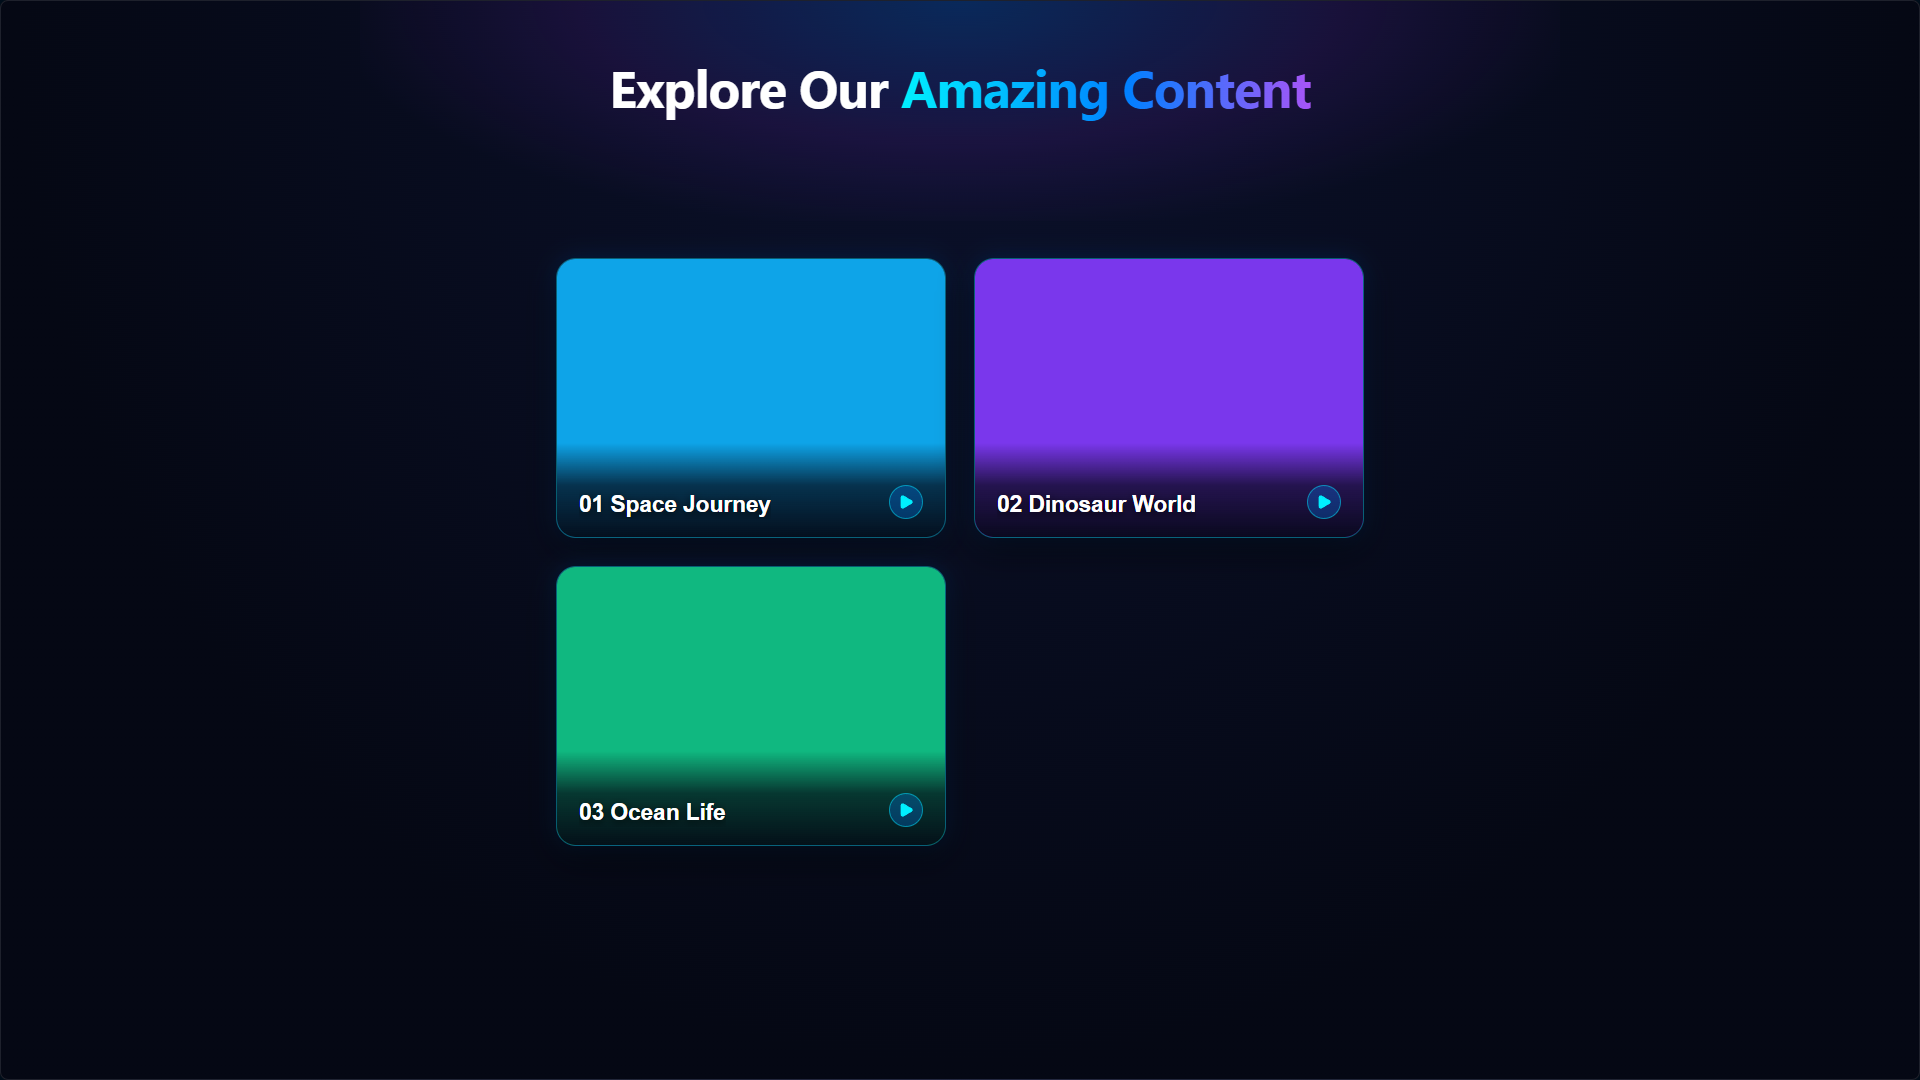
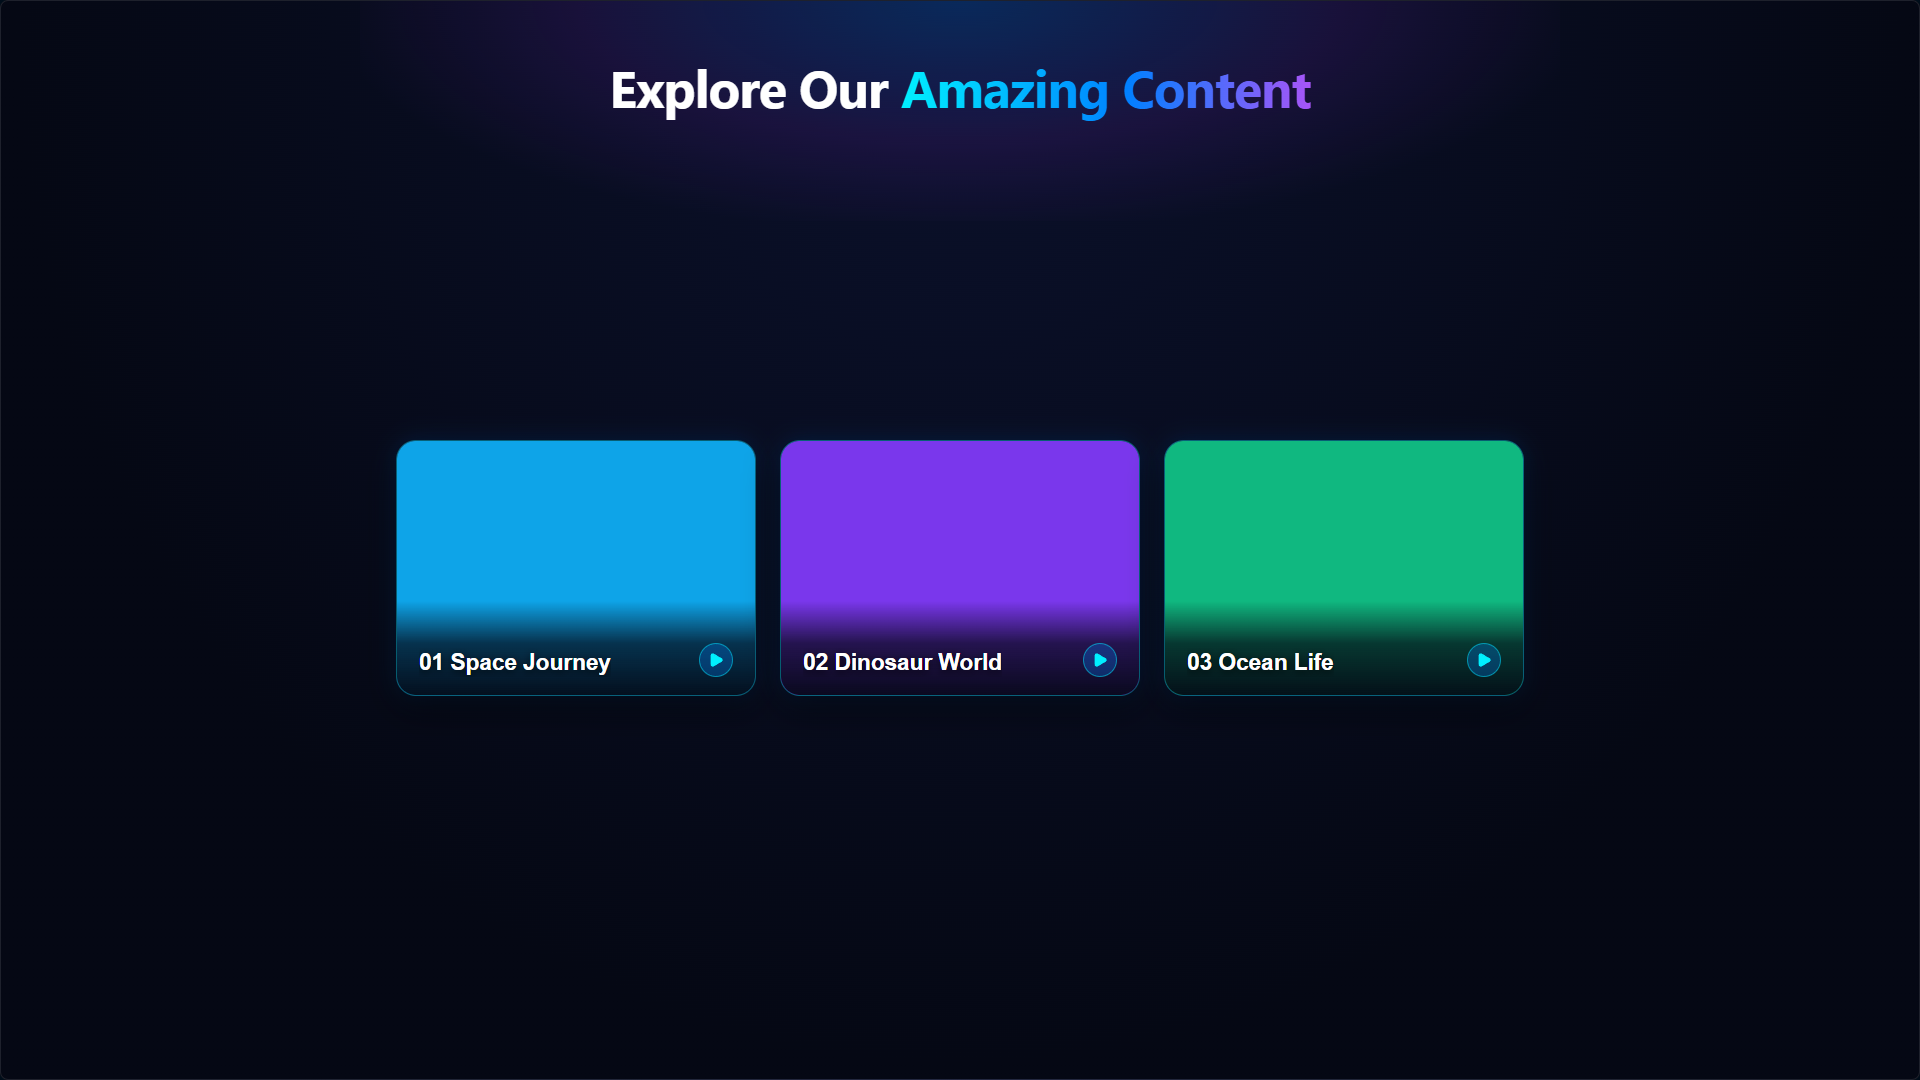
P3: P3-2 fix centered rows for fewer cards, vertical balance, dispatch-before-select, swipe-click test

Changed region(s): [[0.1875, 0.2139, 0.8125, 0.7639]]

diff --git a/src/test/gallery.test.tsx b/src/test/gallery.test.tsx
@@ -1,7 +1,7 @@
 import { describe, it, expect, beforeEach } from 'vitest';
 import { render, screen, fireEvent } from '@testing-library/react';
 import { GalleryScreen, slicePageItems } from '../renderer/src/screens/GalleryScreen';
-import { computeGridColumns } from '../renderer/src/components/MediaGrid';
+import { computeGridLayout } from '../renderer/src/components/MediaGrid';
 import { useApplicationStore } from '../renderer/src/stores/applicationStore';
 import { useMediaStore, computeTotalPages } from '../renderer/src/stores/mediaStore';
 import { usePlayerStore } from '../renderer/src/stores/playerStore';
@@ -33,12 +33,15 @@ describe('Gallery pagination & grid math', () => {
     expect(slicePageItems(items, 2, 8)).toHaveLength(4);
   });
 
-  it('computes grid columns = ceil(n/2) bounded to [1, 4]', () => {
-    expect(computeGridColumns(1)).toBe(1);
-    expect(computeGridColumns(2)).toBe(1);
-    expect(computeGridColumns(3)).toBe(2);
-    expect(computeGridColumns(5)).toBe(3);
-    expect(computeGridColumns(8)).toBe(4);
+  it('computes centered grid layout (rows & columns) for n=1..8', () => {
+    expect(computeGridLayout(1)).toEqual({ rows: 1, columns: 1 });
+    expect(computeGridLayout(2)).toEqual({ rows: 1, columns: 2 });
+    expect(computeGridLayout(3)).toEqual({ rows: 1, columns: 3 });
+    expect(computeGridLayout(4)).toEqual({ rows: 1, columns: 4 });
+    expect(computeGridLayout(5)).toEqual({ rows: 2, columns: 3 });
+    expect(computeGridLayout(6)).toEqual({ rows: 2, columns: 3 });
+    expect(computeGridLayout(7)).toEqual({ rows: 2, columns: 4 });
+    expect(computeGridLayout(8)).toEqual({ rows: 2, columns: 4 });
   });
 });
 
@@ -132,6 +135,53 @@ describe('GalleryScreen interactions', () => {
 
     expect(usePlayerStore.getState().selectedMediaId).toBe('video-2');
     expect(useApplicationStore.getState().state).toBe('INDIVIDUAL_PLAYER');
+  });
+
+  it('does not set selectedMediaId when dispatch is rejected by transition lock', () => {
+    useMediaStore.getState().setScanResult(
+      {
+        items: makeItems(3),
+        ignored_orphan_count: 0,
+        video_count: 3,
+        image_count: 3,
+        errors: [],
+        root: 'C:/Media',
+      },
+      8
+    );
+
+    useApplicationStore.getState().beginTransition(500);
+    render(<GalleryScreen />);
+    fireEvent.click(screen.getByRole('button', { name: 'Play Video 1' }));
+
+    expect(usePlayerStore.getState().selectedMediaId).toBeNull();
+    expect(useApplicationStore.getState().state).toBe('GALLERY');
+  });
+
+  it('does not trigger card selection when a click follows a horizontal swipe', () => {
+    useMediaStore.getState().setScanResult(
+      {
+        items: makeItems(12),
+        ignored_orphan_count: 0,
+        video_count: 12,
+        image_count: 12,
+        errors: [],
+        root: 'C:/Media',
+      },
+      8
+    );
+
+    render(<GalleryScreen />);
+    const gallery = screen.getByTestId('gallery-screen');
+
+    fireEvent.pointerDown(gallery, { clientX: 600, clientY: 300, pointerId: 1 });
+    fireEvent.pointerUp(gallery, { clientX: 440, clientY: 305, pointerId: 1 });
+    expect(useMediaStore.getState().currentPage).toBe(1);
+
+    // Browser fires trailing click on card underneath pointerUp
+    fireEvent.click(screen.getByRole('button', { name: 'Play Video 1' }));
+    expect(usePlayerStore.getState().selectedMediaId).toBeNull();
+    expect(useApplicationStore.getState().state).toBe('GALLERY');
   });
 
   it('shows fallback tile on thumbnail error while keeping title visible', () => {

diff --git a/src/renderer/src/components/MediaGrid.tsx b/src/renderer/src/components/MediaGrid.tsx
@@ -10,25 +10,46 @@ export interface MediaGridProps {
   onSelectMedia: (id: string) => void;
 }
 
+const CARD_WIDTH_PX = 360;
+const GRID_GAP_PX = 24;
+
+export interface GridLayoutInfo {
+  rows: number;
+  columns: number;
+}
+
 /**
- * Computes responsive grid columns for up to 4x2 layout:
- * ceil(n / 2) bounded to [1, 4], centering smaller sets.
+ * Computes balanced centered grid layout:
+ * - n <= 4: 1 centered row of n cards
+ * - n > 4: 2 centered rows with columns = ceil(n / 2) capped at 4
  */
+export function computeGridLayout(visibleCount: number): GridLayoutInfo {
+  if (visibleCount <= 0) return { rows: 1, columns: 1 };
+  if (visibleCount <= 4) {
+    return { rows: 1, columns: visibleCount };
+  }
+  return {
+    rows: 2,
+    columns: Math.min(4, Math.ceil(visibleCount / 2)),
+  };
+}
+
 export function computeGridColumns(visibleCount: number): number {
-  if (visibleCount <= 0) return 1;
-  return Math.min(4, Math.max(1, Math.ceil(visibleCount / 2)));
+  return computeGridLayout(visibleCount).columns;
 }
 
 export const MediaGrid: React.FC<MediaGridProps> = React.memo(
   ({ items, presets, onSelectMedia }) => {
-    const columns = computeGridColumns(items.length);
+    const { rows, columns } = computeGridLayout(items.length);
+    const maxWidth = columns * CARD_WIDTH_PX + Math.max(0, columns - 1) * GRID_GAP_PX;
 
     return (
       <div
         className={styles.grid}
-        style={{ gridTemplateColumns: `repeat(${columns}, auto)` }}
+        style={{ maxWidth: `${maxWidth}px` }}
         data-testid="media-grid"
         data-columns={columns}
+        data-rows={rows}
       >
         {items.map((item, idx) => (
           <MediaCard

diff --git a/src/renderer/src/screens/GalleryScreen.tsx b/src/renderer/src/screens/GalleryScreen.tsx
@@ -77,9 +77,11 @@ export const GalleryScreen: React.FC = () => {
       }
       if (isTransitionLocked) return;
 
+      const accepted = dispatch('SELECT_MEDIA', { lockDurationMs: 400 });
+      if (!accepted) return;
+
       AudioService.play('select');
       selectMedia(id);
-      dispatch('SELECT_MEDIA', { lockDurationMs: 400 });
     },
     [isTransitionLocked, selectMedia, dispatch]
   );

diff --git a/src/renderer/src/screens/GalleryScreen.module.css b/src/renderer/src/screens/GalleryScreen.module.css
@@ -90,13 +90,13 @@
   display: flex;
   align-items: center;
   justify-content: center;
-  min-height: 600px;
+  min-height: 0;
 }
 
 .footer {
   position: relative;
   z-index: 2;
-  min-height: 48px;
+  min-height: 16px;
   display: flex;
   align-items: center;
   justify-content: center;

diff --git a/src/renderer/src/components/MediaCard.module.css b/src/renderer/src/components/MediaCard.module.css
@@ -1,7 +1,7 @@
 .card {
   position: relative;
-  width: 390px;
-  height: 280px;
+  width: 360px;
+  height: 256px;
   border-radius: var(--radius-lg);
   overflow: hidden;
   border: 1.5px solid rgba(0, 240, 255, 0.35);

diff --git a/src/renderer/src/components/MediaGrid.module.css b/src/renderer/src/components/MediaGrid.module.css
@@ -1,7 +1,9 @@
 .grid {
-  display: grid;
-  gap: 28px;
+  display: flex;
+  flex-wrap: wrap;
+  gap: 24px;
   justify-content: center;
+  align-items: center;
   align-content: center;
   margin: 0 auto;
 }
